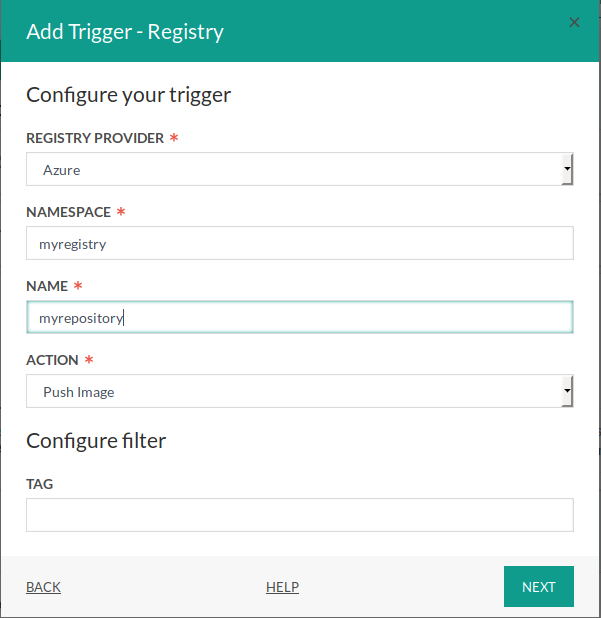
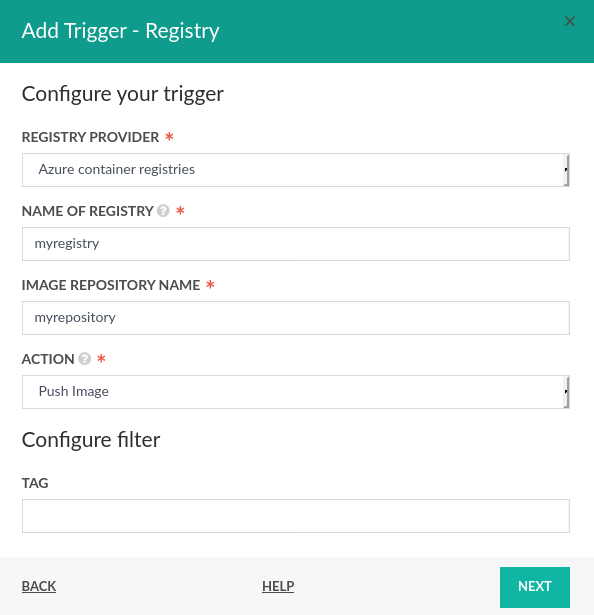
Small mods to azure triggers page

Changed region(s): [[0.0, 0.0, 1.0, 1.0], [0.0303, 0.7724, 0.0909, 0.865]]

diff --git a/_docs/configure-ci-cd-pipeline/triggers/azure-triggers.md b/_docs/configure-ci-cd-pipeline/triggers/azure-triggers.md
@@ -38,10 +38,10 @@ max-width="40%"
 Fill the following information:
 
 * Registry Provider - select `Azure`.
-* *Namespace* - put Azure name of registry (without `.azurecr.io`).
-* *Name* - Azure image repository name.
+* *Name of Registry* - put Azure name of registry (without `.azurecr.io`).
+* *Image Repository Name* - Azure image repository name.
 * *Action* - select `Push Image` action.
-* *Filter* - optional filter to specify which image *tags* will trigger pipeline execution: [Re2](https://github.com/google/re2/wiki/Syntax) regular expression.
+* *Tags* - optional filter to specify which image *tags* will trigger pipeline execution: [Re2](https://github.com/google/re2/wiki/Syntax) regular expression.
 
 {% include image.html
 lightbox="true"
